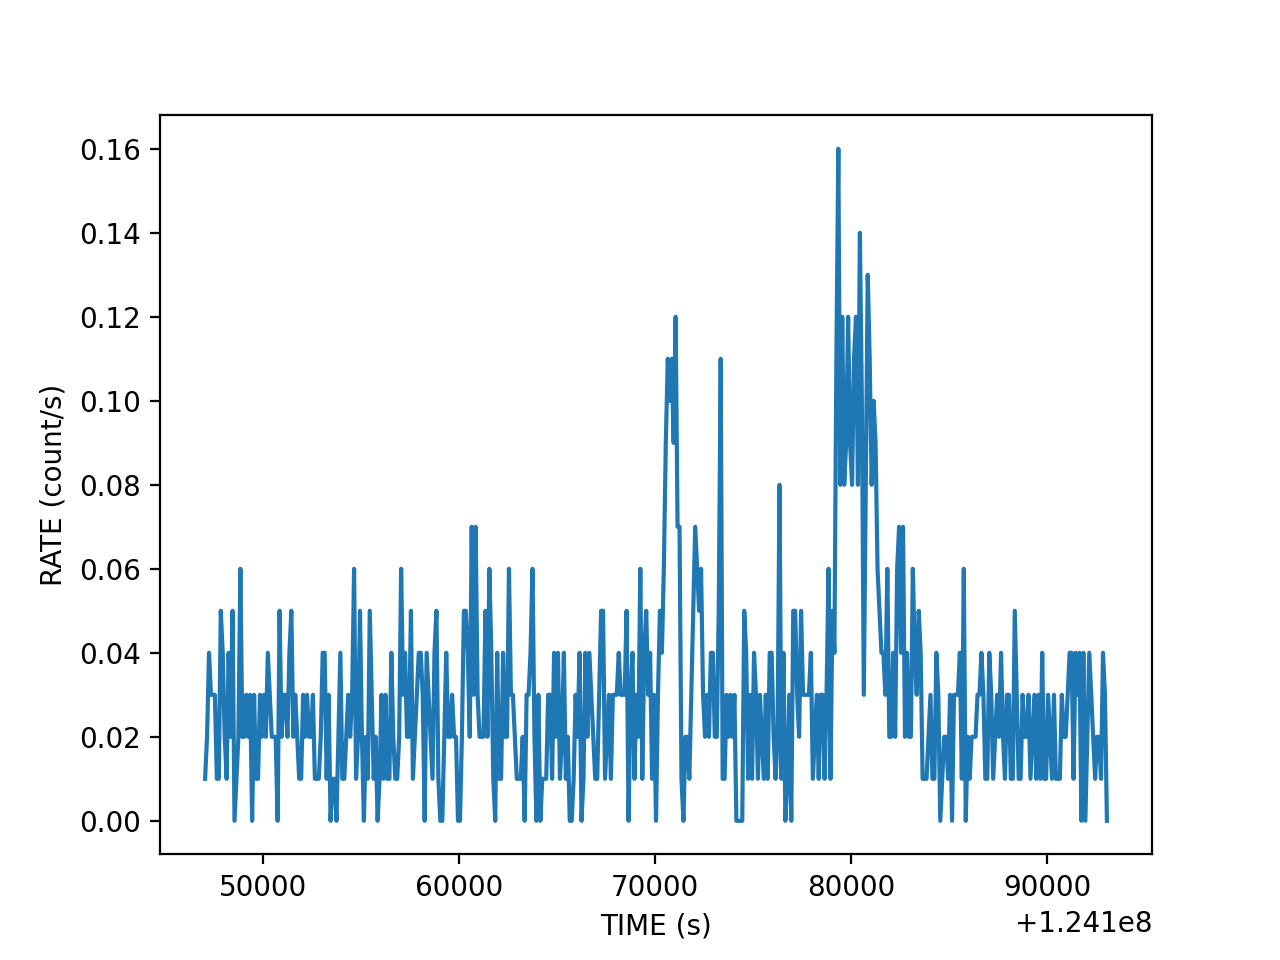
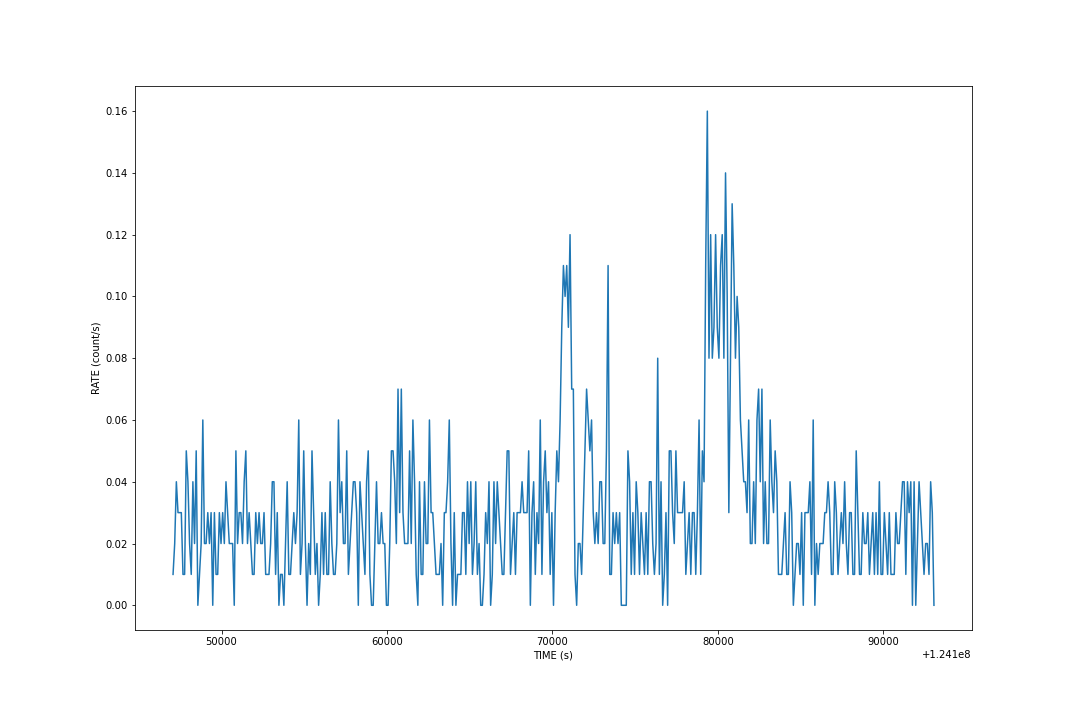
ltcrv

diff --git a/_posts/2023-03-28-First-try.md b/_posts/2023-03-28-First-try.md
@@ -88,14 +88,16 @@ Be careful that the part "RGS1_SRC1_SPATIAL" will turn to "RGS1_SRC3_SPATIAL" an
 evselect table=r1_evt1.fits:EVENTS withrateset=yes rateset=ltcrv.fits maketimecolumn=yes timebinsize=100 makeratecolumn=yes expression='(CCDNR==9)&&(REGION(r1_src.fits:RGS1_BACKGROUND,M_LAMBDA,XDSP_CORR))'
 ```
 
-<img src="https://raw.githubusercontent.com/LittleCaps/LittleCaps.github.io/master/screenshots/Ltcrv.png" alt="Ltcrv" style="zoom:46%;" />
+<img src="https://raw.githubusercontent.com/LittleCaps/LittleCaps.github.io/master/screenshots/ltcrv.png" alt="ltcrv" style="zoom:80%;" />
 
 There are loud sections in the observation. To remove it, we need to make an additional Good Time Interval (GTI) file and apply it by rerunning rgsproc.
 
 ## Create GTI File
 
+<img src="https://raw.githubusercontent.com/LittleCaps/LittleCaps.github.io/master/screenshots/ltcrv2.png" alt="ltcrv2" style="zoom:80%;" />
+
 ```bash
-tabgtigen table=ltcrv.fits gtiset=gti.fits expression='(RATE<0.1)'
+tabgtigen table=ltcrv.fits gtiset=gti.fits expression=''
 ```
 
 ## Create RMFs
